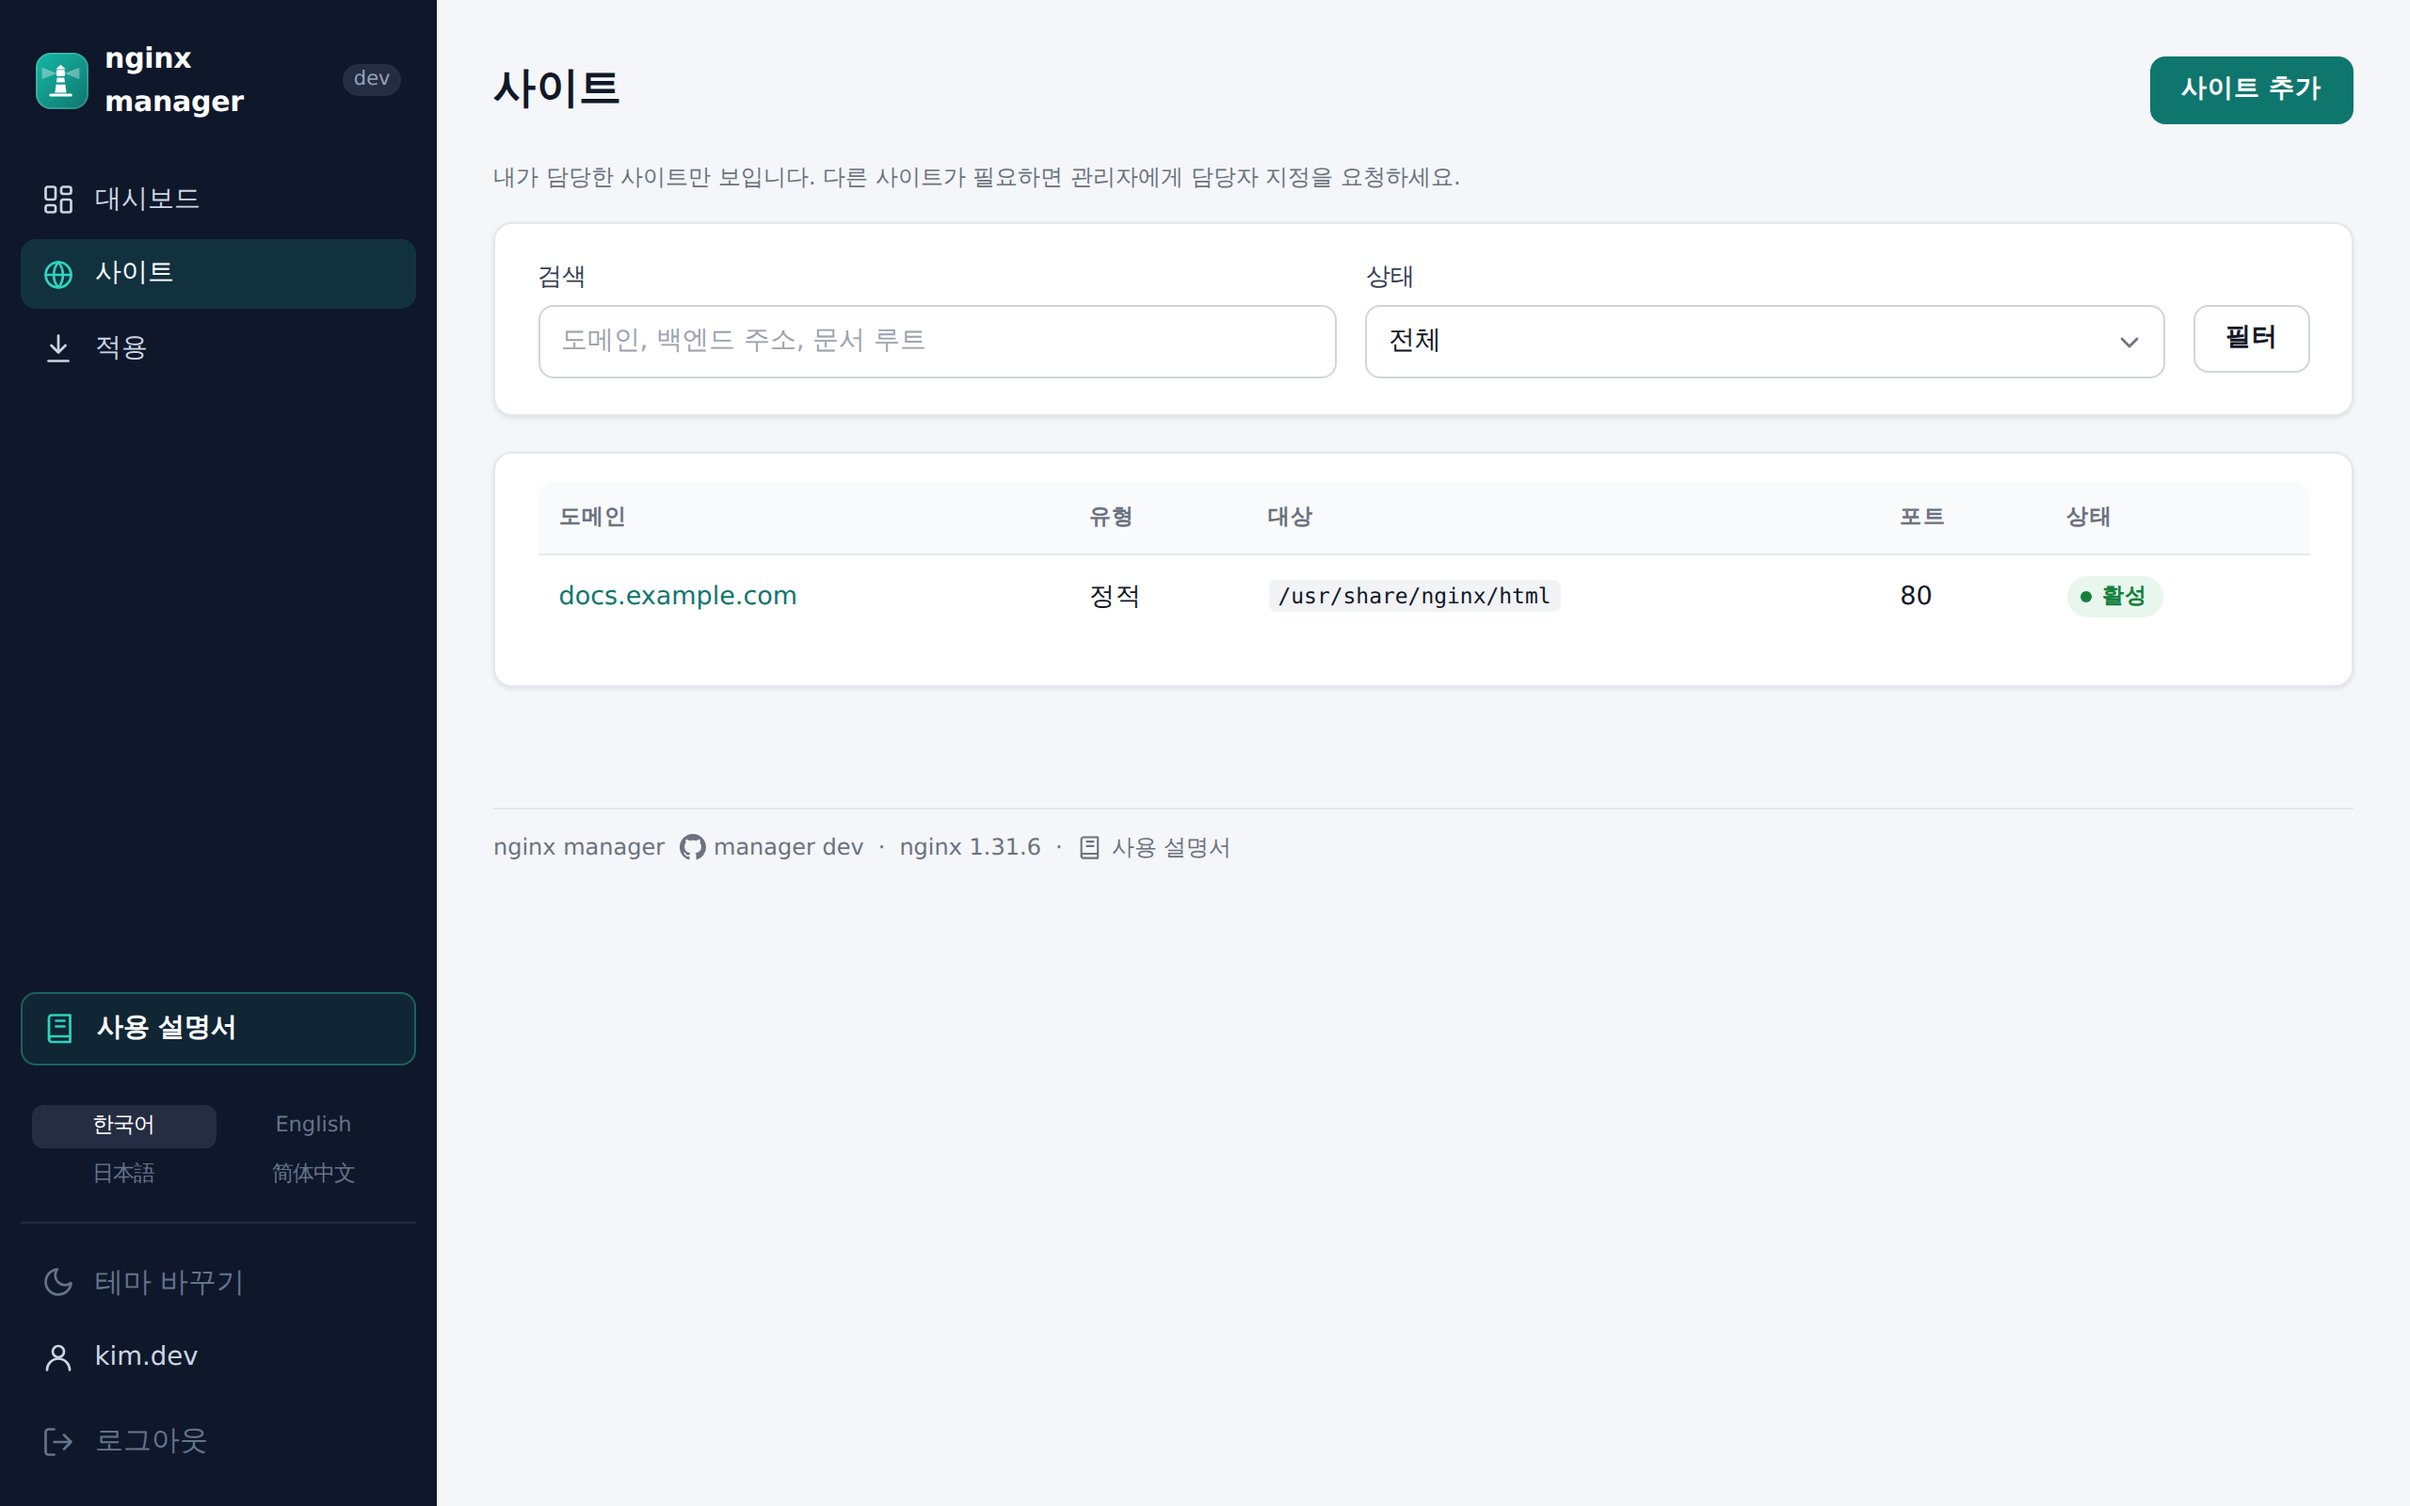
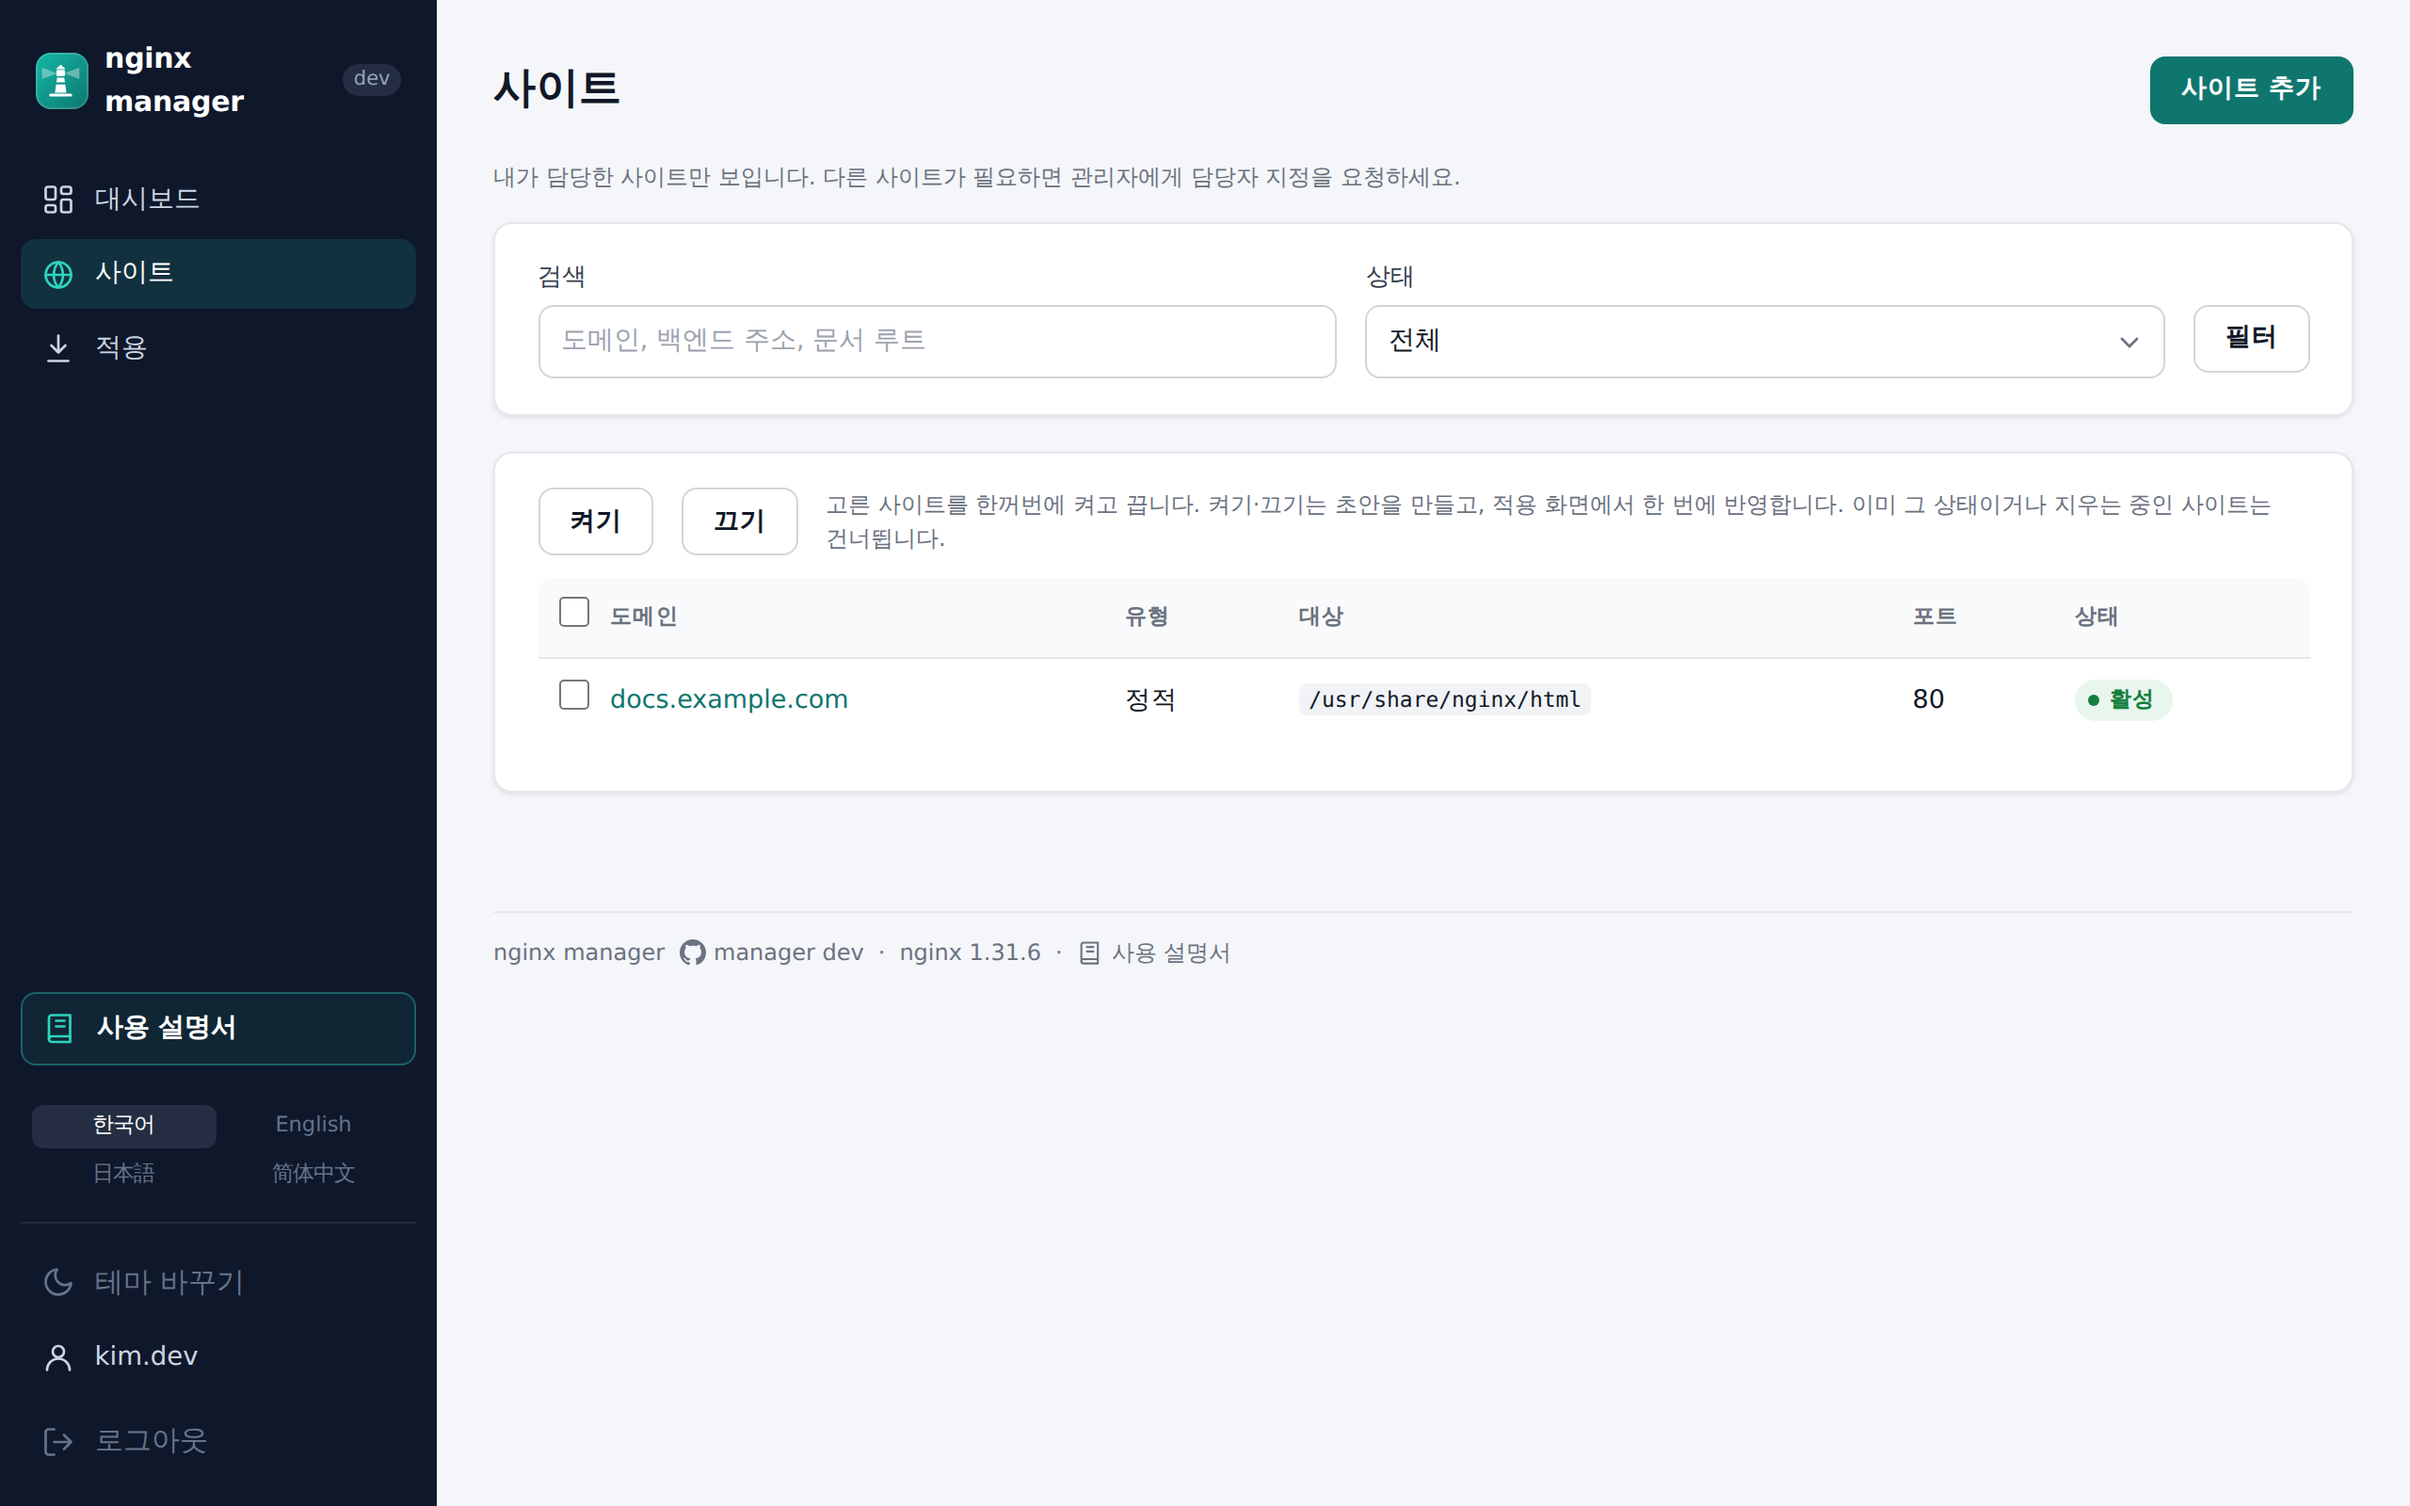
v1.8.0 릴리스 노트와 설명서 그림 (#57)
* 015: 자동 백업(매일 nm backup --label auto)과 대시보드의 마지막 백업

- nm backup-schedule: NGINX_MANAGER_BACKUP_AT(기본 03:30, off면 끔)으로 cron 또는 systemd timer
- 설치와 nm upgrade가 스케줄을 깔고, nm backup은 data/manager/backup-status에 결과를 남김
- 관리자 대시보드에 마지막 백업(시각, 종류, 크기)과 실패·2일 넘게 없음 경고
- 4개 언어 문구, 설명서 1장·3장, README 환경 변수, 스모크 테스트

Claude-Session: https://claude.ai/code/session_01Xx9UjnVyTKsCfGxjo3iS9Q

* 테스트에서 예약 변경 감지가 적용 잠금을 잡지 않게 한다

예약 변경 감지(1분마다)가 적용 잠금을 잡은 사이에 다른 테스트가 적용하면
ApplyInProgressException으로 실패했다. 감지 주기를 nginx-manager.drift.interval로
설정할 수 있게 하고 테스트에서는 돌리지 않는다.

Claude-Session: https://claude.ai/code/session_01Xx9UjnVyTKsCfGxjo3iS9Q

* 016: PHP-FPM 사이트 폼

- 사이트 유형 PHP: 문서 루트와 PHP-FPM 주소(호스트:포트, unix:/소켓)
- try_files로 index.php 프런트 컨트롤러, .php는 fastcgi_pass, 접근 제한·비밀번호는 두 location 모두에
- root와 fastcgi_pass 하나인 PHP 설정은 PHP 폼 사이트로 가져오기
- 4개 언어 문구, 설명서 4장·5장, README

Claude-Session: https://claude.ai/code/session_01Xx9UjnVyTKsCfGxjo3iS9Q

* 017: 로그인 2단계 인증(TOTP)과 복구 코드

내 계정에서 인증 앱(TOTP) 2단계 인증을 켜고 끈다. 비밀번호 다음에 코드 화면을
거쳐야 하고, 복구 코드 10개(1회용)를 준다. 틀린 코드는 비밀번호 실패와 같이
세어 잠그고, 비밀번호만 맞혀서는 실패 횟수가 지워지지 않는다. 관리자는 사용자
화면에서, 운영자는 nm reset-2fa로 해제한다.

Claude-Session: https://claude.ai/code/session_01Xx9UjnVyTKsCfGxjo3iS9Q

* 018: 외부 인증(auth_request)과 gRPC 프록시 폼

사이트 옵션에 외부 인증 서버와 로그인 주소를 더해 oauth2-proxy·Authelia 같은
SSO를 사이트 앞에 둔다. 리버스 프록시의 업스트림을 grpc://·grpcs://로 적으면
grpc_pass와 h2c로 넘긴다.

Claude-Session: https://claude.ai/code/session_01Xx9UjnVyTKsCfGxjo3iS9Q

* 설명서 그림을 GitHub Actions에서 다시 찍는 워크플로
[…]

diff --git a/docs/releases/v1.8.0.md b/docs/releases/v1.8.0.md
@@ -1,0 +1,34 @@
+# v1.8.0 — 운영 알림, 사이트 여러 개 한꺼번에, 감사 로그 CSV
+
+- 날짜: 2026-10-30
+- 이미지: `ghcr.io/nginx-manager/app:1.8.0`, `ghcr.io/nginx-manager/nginx:1.8.0-nginx1.31.8`
+- nginx: 1.31.8 (v1.7.0과 같음)
+- 설치 묶음: [GitHub Release v1.8.0](https://github.com/nginx-manager/app/releases/tag/v1.8.0)의 `install.sh`, `nginx-manager.tar.gz`
+
+관리 화면을 열어 보지 않아도 장애를 알 수 있게 알림을 넓히고, 사이트가 많을 때 반복하던 일을 줄였습니다.
+
+## 운영 알림
+
+- 지금까지는 인증서 발급·갱신 실패와 만료 임박만 알렸습니다. 이제 다음 일도 메일·웹훅으로 알립니다.
+  - **적용 실패**: 설정 적용·롤백이 `nginx -t`에 실패했거나, 적용 뒤 상태 확인에 실패해 자동으로 되돌렸을 때
+  - **nginx 내려감·재시작**: nginx 마스터 프로세스가 내려갔거나 다시 시작됐을 때
+  - **직접 바뀐 설정 파일**: 서버에서 관리도구를 거치지 않고 바뀐 설정 파일을 찾았을 때. 같은 변경은 한 번만 알립니다
+  - **백업 실패**: `nm backup`(자동 백업 포함)이 실패했을 때. 실패 한 번에 한 번만 알립니다
+  - **계정 잠김**: 로그인 실패가 이어져 계정이 잠겼을 때
+- 알림 설정 화면의 **받을 알림**에서 채널마다 받을 종류를 고릅니다. 기존 채널은 모두 받도록 그대로 둡니다(사용 설명서 12장).
+- 알림은 따로 보내므로 웹훅이 느려도 적용·로그인이 기다리지 않습니다.
+
+## 사이트 여러 개 한꺼번에
+
+- 사이트 목록 왼쪽 칸에서 사이트를 고르고(맨 위 칸은 모두 고르기) **켜기**·**끄기**를 누르면 고른 사이트마다 초안이 생기고, 적용 화면에서 한 번에 반영합니다.
+- 관리자는 **담당자 지정**으로 고른 사이트의 담당자를 한꺼번에 정합니다.
+- 이미 그 상태이거나 지우는 중인 사이트는 건너뛰고, 바꾼 수와 건너뛴 수를 알려 줍니다. 검색으로 좁힌 뒤 모두 고르면 "이 백엔드를 쓰는 사이트 모두 끄기"를 한 번에 합니다(사용 설명서 4장).
+
+## 감사 로그 CSV
+
+- 감사 로그 화면의 **CSV 내려받기**로 지금 조건에 맞는 기록을 최근 10,000줄까지 받습니다. 엑셀에서 한글이 깨지지 않고, 수식으로 읽힐 값은 앞에 `'`를 붙여 막습니다(사용 설명서 12장).
+
+## 업그레이드할 때
+
+- `sudo /opt/nginx-manager/nm upgrade`로 manager만 올리면 됩니다. 에이전트 API 판은 그대로(1)라 nginx 이미지는 올리지 않아도 됩니다.
+- 채널마다 받을 알림을 저장할 칸이 생겨 DB 마이그레이션(V14)이 시작할 때 자동으로 적용됩니다. 기존 채널은 새 알림까지 모두 받으니, 필요하면 알림 설정에서 줄이세요.
